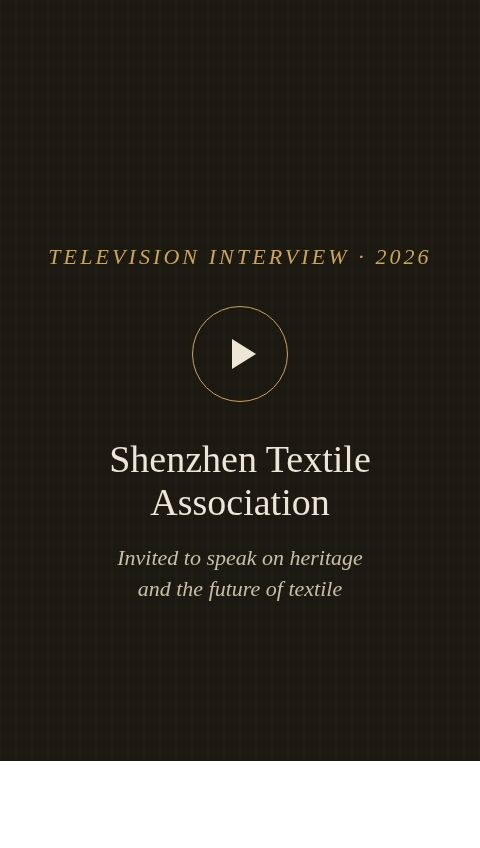
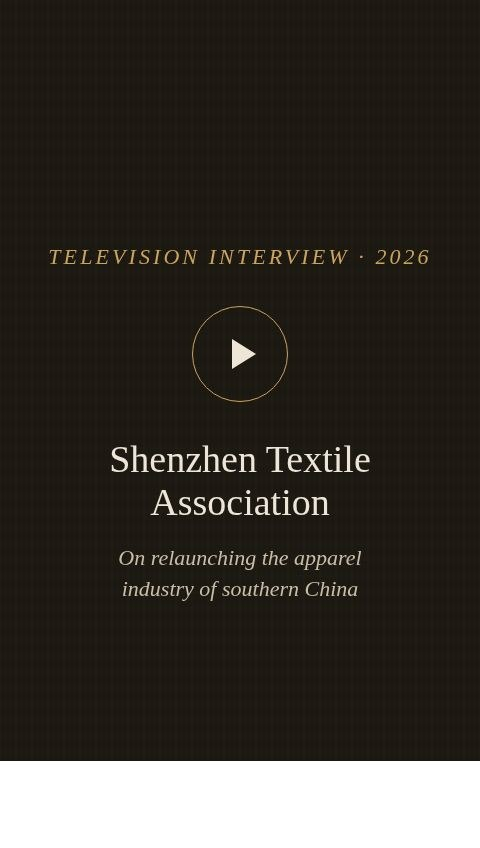
Portfolio: add balanced scorecard, MBTI (ESTJ), live Carrera VR store card; fix interview topic (southern China apparel) + weaver caption
Claude-Session: https://claude.ai/code/session_01AheqiPu51AkPwVXxsTYaLv

Changed region(s): [[0.25, 0.6439, 0.75, 0.7052]]

diff --git a/portfolio/index.html b/portfolio/index.html
@@ -153,6 +153,34 @@
   .invite{font-family:"Cormorant Garamond",Georgia,serif; font-size:clamp(20px,2.4vw,26px); color:#3a342c; max-width:24em; margin:22px auto 0; line-height:1.5}
   @media(max-width:760px){ .turn{grid-template-columns:1fr; gap:28px} .portrait{max-width:240px; margin:0 auto} }
 
+  /* MBTI portrait tag */
+  .ptag{margin-top:14px; text-align:center; font-size:12px; letter-spacing:.16em; text-transform:uppercase; color:var(--muted); font-weight:600}
+  .ptag b{color:var(--accent-dk)}
+
+  /* balanced scorecard */
+  .bsc{display:grid; grid-template-columns:1fr 1fr; gap:1px; background:var(--line); border:1px solid var(--line)}
+  .q{background:var(--bg); padding:34px 32px}
+  .q .qh{display:flex; align-items:baseline; gap:11px; margin-bottom:14px}
+  .q .qn{font-family:"Playfair Display",Georgia,serif; font-size:16px; color:var(--accent); font-style:italic}
+  .q .ql{font-size:11.5px; letter-spacing:.18em; text-transform:uppercase; color:var(--muted); font-weight:600}
+  .q .metric{font-family:"Playfair Display",Georgia,serif; font-size:clamp(28px,3.6vw,40px); color:var(--ink); line-height:1; margin-bottom:16px; font-weight:500}
+  .q .metric .u{color:var(--accent); font-size:.5em; vertical-align:.18em}
+  .q ul{list-style:none; padding:0; margin:0}
+  .q li{position:relative; padding-left:16px; margin:7px 0; font-size:14.5px; color:#463f36; line-height:1.42}
+  .q li:before{content:"—"; position:absolute; left:0; color:var(--accent)}
+  .q li b{color:var(--ink); font-weight:600}
+  @media(max-width:760px){ .bsc{grid-template-columns:1fr} }
+
+  /* live store card */
+  .storecard{border:1px solid var(--accent); background:var(--paper); border-radius:4px; padding:26px; margin-bottom:20px; position:relative}
+  .storecard .se{font-size:11px; letter-spacing:.16em; text-transform:uppercase; color:var(--accent); font-weight:600}
+  .storecard h3{font-family:"Playfair Display",Georgia,serif; font-size:23px; margin:9px 0; font-weight:500}
+  .storecard p{color:#463f36; font-size:14.5px; margin-bottom:16px}
+  .storecard .go{display:inline-block; padding:12px 22px; background:var(--ink); color:var(--bg); text-decoration:none; font-size:12.5px; letter-spacing:.08em; text-transform:uppercase; border-radius:2px; transition:.2s}
+  .storecard .go:hover{background:var(--accent-dk)}
+  .storecard .live{position:absolute; top:22px; right:24px; font-size:10.5px; letter-spacing:.14em; text-transform:uppercase; color:var(--accent-dk)}
+  .storecard .live:before{content:"●"; color:#3c9a6b; margin-right:6px; font-size:9px; vertical-align:1px}
+
   @media(max-width:760px){
     .stats{grid-template-columns:repeat(2,1fr)}
     .gallery{grid-template-columns:1fr 1fr}
@@ -180,9 +208,12 @@
 <!-- ================= STATEMENT ================= -->
 <section class="statement">
   <div class="wrap turn reveal">
-    <div class="portrait">
-      <img src="media/portrait.jpg" alt="Nicolas Denna" onerror="this.style.display='none';this.parentElement.classList.add('empty')">
-      <span class="mono">ND</span>
+    <div>
+      <div class="portrait">
+        <img src="media/portrait.jpg" alt="Nicolas Denna" onerror="this.style.display='none';this.parentElement.classList.add('empty')">
+        <span class="mono">ND</span>
+      </div>
+      <div class="ptag"><b>ESTJ</b> · The Executive</div>
     </div>
     <div class="turn-txt">
       <p>For six years I ran the commercial engine at the summit of luxury textile — Hermès, the Executive Committee, eight factories, a business built on the finest craft in the world.</p>
@@ -192,20 +223,50 @@
   </div>
 </section>
 
-<!-- ================= IMPACT ================= -->
+<!-- ================= BALANCED SCORECARD ================= -->
 <section>
   <div class="wrap">
     <div class="sec-head reveal">
-      <span class="eyebrow">Selected Impact</span>
-      <h2>Numbers that hold their weight.</h2>
+      <span class="eyebrow">Impact · A Balanced Scorecard</span>
+      <h2>Measured on every axis that matters.</h2>
     </div>
-    <div class="stats reveal">
-      <div class="stat"><div class="num" data-to="6"></div><div class="lbl"><b>Years as Commercial Director</b> at Hermès, on the Business Unit Executive Committee.</div></div>
-      <div class="stat"><div class="num" data-to="20" data-suffix="×"></div><div class="lbl">A new textile-accessories line <b>built from scratch</b> — €100K to €2M.</div></div>
-      <div class="stat"><div class="num" data-prefix="~€" data-to="30" data-suffix="M"></div><div class="lbl">Commercial <b>P&amp;L across four Asian offices</b> at Zegna Baruffa.</div></div>
-      <div class="stat"><div class="num" data-prefix="+" data-to="40" data-suffix="%"></div><div class="lbl">Turnover growth across <b>four European markets</b> at Bonotto.</div></div>
-      <div class="stat"><div class="num" data-to="300" data-arrow="20"></div><div class="lbl">Client portfolio <b>re-engineered to a premium core</b>, lifting service &amp; margin.</div></div>
-      <div class="stat"><div class="num" data-to="3.4" data-suffix="×" data-dec="1"></div><div class="lbl">Order-value uplift on my <b>phygital B2B platform</b>, Brand Selection.</div></div>
+    <div class="bsc reveal">
+      <div class="q">
+        <div class="qh"><span class="qn">01</span><span class="ql">Financial</span></div>
+        <div class="metric">20<span class="u">×</span></div>
+        <ul>
+          <li>New textile-accessories line built from scratch — <b>€100K → €2M</b>.</li>
+          <li><b>~€30M</b> commercial P&amp;L led across four Asian offices.</li>
+          <li><b>+40%</b> turnover growth at Bonotto.</li>
+        </ul>
+      </div>
+      <div class="q">
+        <div class="qh"><span class="qn">02</span><span class="ql">Customer &amp; Market</span></div>
+        <div class="metric">300 <span class="u">→ 20</span></div>
+        <ul>
+          <li>Client portfolio re-engineered to a <b>premium core</b> — higher service and margin.</li>
+          <li><b>27 brands</b> onboarded to a phygital B2B marketplace.</li>
+          <li><b>3.4×</b> average order value on the platform I built.</li>
+        </ul>
+      </div>
+      <div class="q">
+        <div class="qh"><span class="qn">03</span><span class="ql">Operations &amp; Excellence</span></div>
+        <div class="metric">8 <span class="u">sites</span></div>
+        <ul>
+          <li>Restructured a business unit spanning <b>eight textile factories</b>.</li>
+          <li>Cross-skilled the team into <b>hybrid commercial-technical</b> roles.</li>
+          <li>Cut tradeshow &amp; sampling cost while <b>protecting margin</b>.</li>
+        </ul>
+      </div>
+      <div class="q">
+        <div class="qh"><span class="qn">04</span><span class="ql">Innovation &amp; Growth</span></div>
+        <div class="metric">Craft <span class="u">× AI</span></div>
+        <ul>
+          <li>Global MBA in AI &amp; Entrepreneurship; <b>self-taught coding</b>.</li>
+          <li>Built a live <b>phygital 3D store</b> — a digital twin for retail.</li>
+          <li>Invited to speak on <b>Chinese television</b>.</li>
+        </ul>
+      </div>
     </div>
   </div>
 </section>
@@ -237,7 +298,7 @@
     <p class="lede reveal" style="max-width:34em">In 2026 I travelled the ancient Silk Road, visiting silk mills across <span class="em">Uzbekistan and China</span> — sitting with weavers, dyers and mill owners where the craft still lives. To lead this industry, I wanted to keep my hands in its origins.</p>
     <div class="gallery reveal">
       <figure class="plate"><span class="idx">I</span><img src="media/IMG_2335.jpg" alt="Ikat silk on the loom"><figcaption>Ikat silk on the loom — Uzbekistan</figcaption></figure>
-      <figure class="plate"><span class="idx">II</span><img src="media/IMG_2358.jpg" alt="Setting the warp by hand"><figcaption>Setting the warp by hand — Uzbekistan</figcaption></figure>
+      <figure class="plate"><span class="idx">II</span><img src="media/IMG_2358.jpg" alt="A master weaver at the warp"><figcaption>A master weaver at the warp — Uzbekistan</figcaption></figure>
       <figure class="plate"><span class="idx">III</span><img src="media/IMG_2348.jpg" alt="Pattern archives at a working mill"><figcaption>In the pattern archives — Uzbekistan</figcaption></figure>
     </div>
     <p class="note reveal">Uzbekistan, 2026 — where the silk still begins by hand.</p>
@@ -257,7 +318,7 @@
         Your browser can't play this video — <a href="media/interview_shenzhen.mp4" style="color:#DCB877">download the clip</a>.
       </video>
       <div class="rec-txt">
-        <p class="lede">Invited by the <span class="em">Shenzhen Textile Association</span> and interviewed on television — a sign of the trust this industry places in cross-cultural expertise.</p>
+        <p class="lede">Invited by the <span class="em">Shenzhen Textile Association</span> and interviewed on television — on how to relaunch the apparel industry of southern China — a sign of the trust this industry places in cross-cultural expertise.</p>
         <p>The bridge I care about most is carrying the standards of European luxury into the Chinese textile world — and bringing its energy back. Being asked to speak, on camera, is a quiet confirmation that the bridge is real.</p>
         <div class="also">
           <img src="media/IMG_1919.jpg" alt="La Moda Italiana @ Almaty 2026">
@@ -282,6 +343,13 @@
         <p class="viewsrc big">↗ <a href="index.html" target="_blank">Don't take my word for it — view the source.</a></p>
       </div>
       <div>
+        <div class="storecard">
+          <span class="live">Live</span>
+          <div class="se">Phygital Retail · Built by me</div>
+          <h3>Carrera VR Store</h3>
+          <p>A virtual 3D shop where buyers walk the space and purchase brands in total autonomy — a working digital twin for retail. Not a mock-up: it's live, and I designed and built it.</p>
+          <a class="go" href="https://carrera-vr-store.netlify.app/" target="_blank" rel="noopener">Enter the store ↗</a>
+        </div>
         <div class="chips">
           <span class="chip"><b>Coding</b> · self-taught</span>
           <span class="chip"><b>AI</b> · sales automation</span>